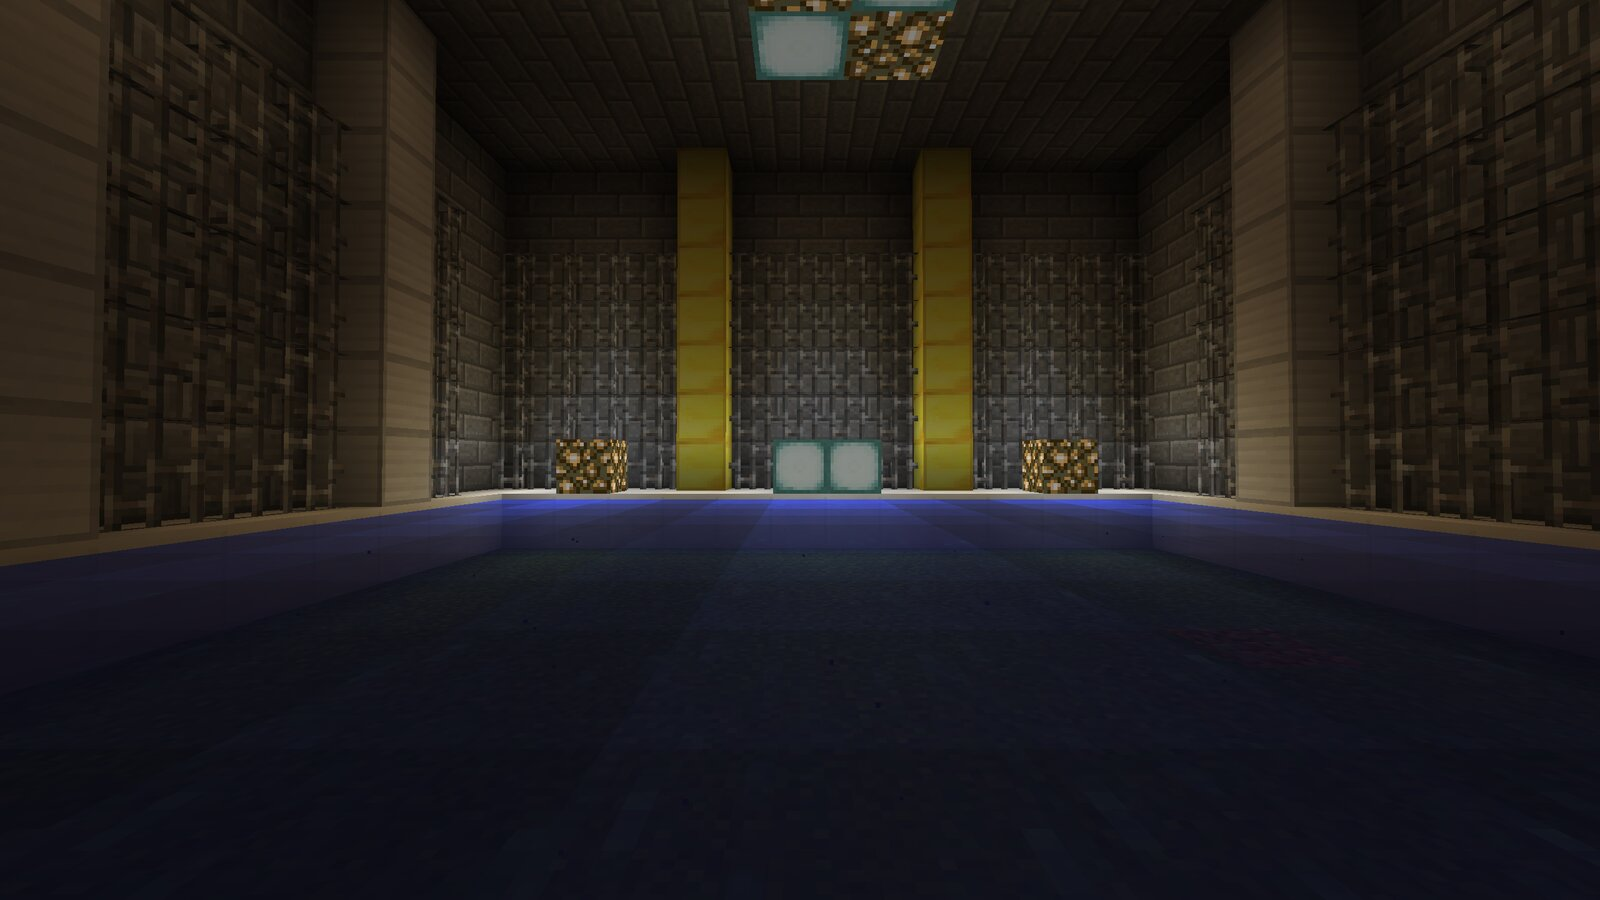
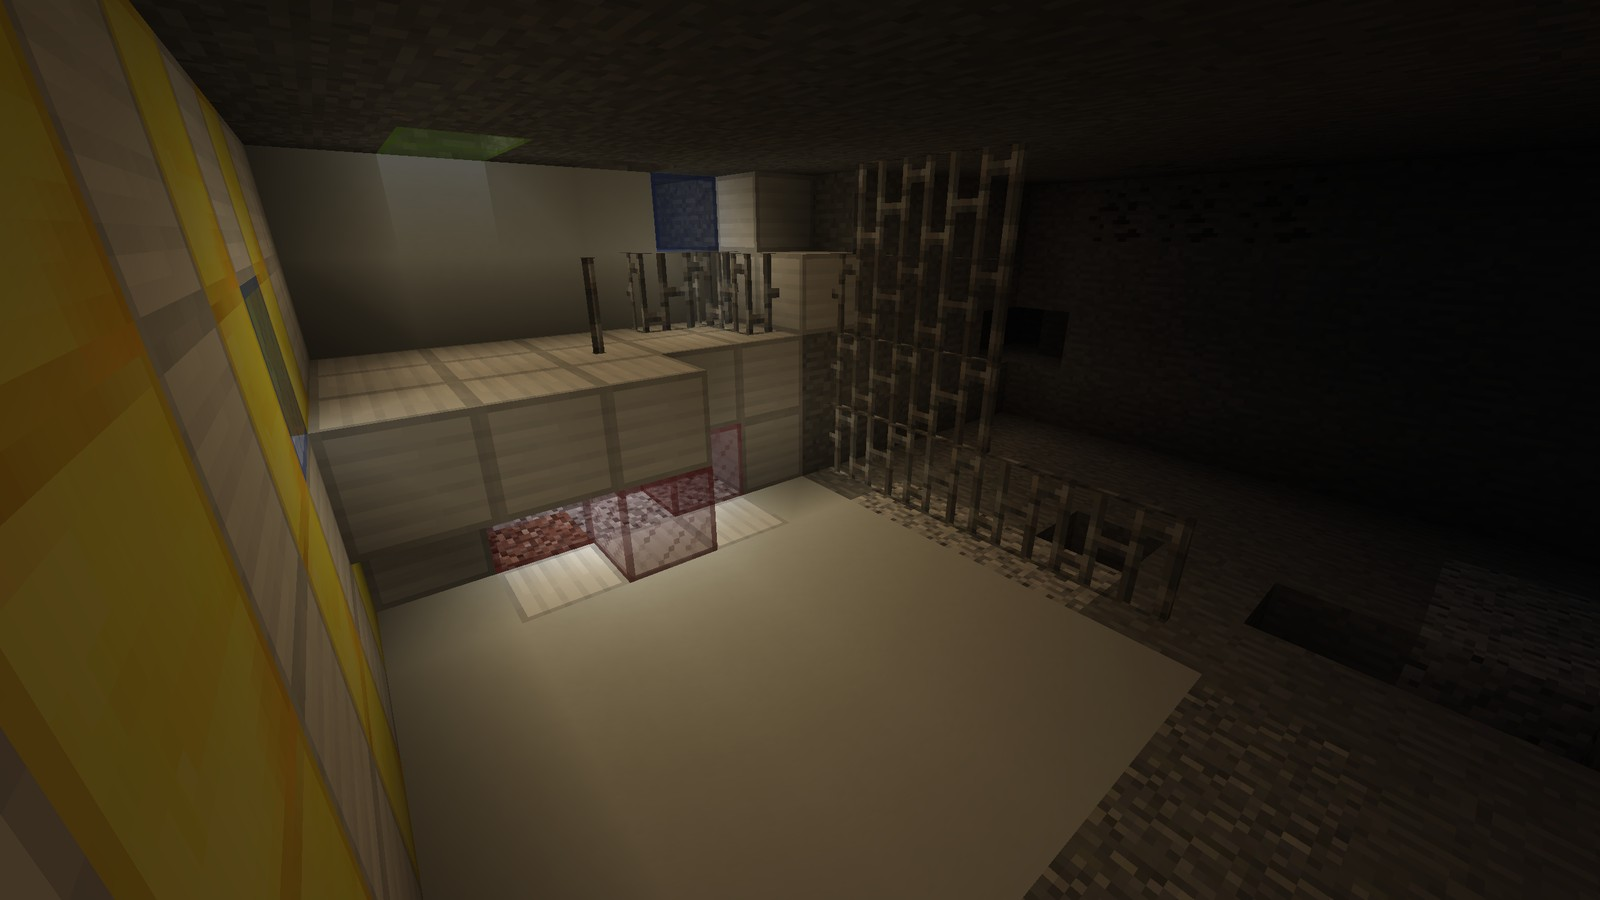
README: ray tracing screenshots; RTX Remix look notes; dev client settings

diff --git a/docs/rt-production-look.md b/docs/rt-production-look.md
@@ -1,0 +1,239 @@
+# Production Look Notes: NVIDIA RTX Remix for Minecraft vs. our RT pass
+
+Research on [NVIDIAGameWorks/rtx-remix-minecraft](https://github.com/NVIDIAGameWorks/rtx-remix-minecraft)
+(Apache-2.0, Fabric, MC 1.21.1, path tracing through the RTX Remix runtime / dxvk-remix).
+Goal: understand what makes its picture look "production" rather than "tech demo", and
+how to reproduce that in our hybrid RT pass (`src/main/resources/assets/vesu/shaders/rt/`,
+`src/main/java/net/vesu/vulkan/rt/`).
+
+The mod's own docs that matter most: `docs/RESOURCE_PACKS.md` (material/light semantics),
+`docs/TUNING.md`, `packaging/rtx.conf` (renderer baseline), and
+`packaging/rtx-remix/mods/minecraft-logic/confs/` (time/weather/water looks).
+Source paths below refer to that repository.
+
+## TL;DR
+
+The NVIDIA look is not a better path tracer. It is three things on top of one:
+
+1. **A deliberate light rig** — tiny, very bright emitters, a sun with angular size and
+   atmosphere extinction, a physically-based sky dome as the only ambient, and a big
+   contrast range between light pools and shadow.
+2. **Energy-consistent transport** — light through colored glass is *multiplied* by the
+   transmittance, never renormalized; reflections are denoised radiance with
+   hit-distance-aware blur, not 1-spp speckle.
+3. **A film-style post chain** — ACES tonemap, −0.75 EV exposure bias, local contrast
+   (shadows 1.4 / highlights 2.5), auto-exposure with tight EV bounds, and selective
+   high-threshold bloom that only the hottest emitters trigger.
+
+Our three visible problems map to these one-to-one:
+
+| Symptom | Root cause in our code | Fix (section) |
+|---|---|---|
+| Light too soft / diffuse | Vanilla lightmap falloff + ambient floors + block-sized emitters | §2.1 |
+| Reflections "crumble" into noise | 1 spp jittered reflection, lightmap-shaded, no denoiser | §2.2 |
+| Colored glass shadows = bright color patches | Hue *normalized and saturated* in shadow any-hit | §2.3 |
+
+---
+
+## 1. What the NVIDIA mod actually is (architecture in one paragraph)
+
+A Fabric mod that replaces the renderer: it re-meshes chunk sections itself
+(`terrain/capture/`), converts the block atlas + LabPBR sidecars into PBR textures
+(`texture/LabPBRConverter.java`: `_s` alpha = emission, smoothness → roughness
+`(1−s)²`, `_n` blue = AO, alpha = height for 0.25-block parallax), and submits
+geometry, analytic lights and a procedural sky to the RTX Remix runtime through its C
+API (`rtxremix-java/`). The runtime path-traces with RTXDI (ReSTIR DI) + NEE cache for
+direct light, ReSTIR GI / SHaRC / NRC for indirect, and **DLSS Ray Reconstruction as
+the denoiser**, then ACES-tonemaps. Layered `rtx.conf` profiles fade looks by time of
+day, weather, biome, water and map zones (`packaging/rtx-remix/mods/minecraft-logic/confs/`).
+
+So it is a full path tracer, but the transferable parts — the light rig, the
+energy-consistency rules, the post chain — are renderer-agnostic and cheap compared to
+path tracing.
+
+---
+
+## 2. Symptom-by-symptom
+
+### 2.1 "Light is too soft and diffuse"
+
+**What we do now** (`lighting.rgen`):
+- Block-light falloff is the *vanilla lightmap curve* `brightness(l) = l/(4−3l)`
+  (`lightTarget()`), spread over a whole block with a random target point in a
+  0.6-block cube — every light is a fuzzy ball about a meter across.
+- Sun shadow is one binary hard ray; there is no penumbra, no atmosphere, so direct
+  sun reads flat.
+- Ambient floors everywhere: `* 0.95 + 0.05`, face shading 0.5/0.6/0.8, DDGI smooth
+  irradiance — nothing ever gets truly dark, so contrast dies.
+
+**What NVIDIA does** — a *lighting rig*, authored like a film set:
+
+- **Small bright emitters.** Torch light: a sphere of radius **0.08** blocks at
+  `(0.5, 0.7, 0.5)`, color `(1.0, 0.35, 0.1)`, intensity `lightLevel(14) × 5 × 3 × 7.5`
+  = **1575** (`light/BlockLightDefaults.java`). The "thin sphere" trick: shrink the
+  radius ×0.4 and raise intensity ×3 — power stays constant but the source is a point,
+  which gives defined pools of light, crisp specular highlights, and visible falloff.
+  Everything else: intensity = vanilla level × 5, ×5 baseline (×7.5 torches/campfires).
+  Emissive *surfaces* (lanterns, sea pickles) deliberately do **not** cast analytic
+  lights; they glow via `_s` alpha at emission intensity 100. Hundreds of weak lights
+  are avoided on purpose ("dilute the light sampling", `docs/RESOURCE_PACKS.md`).
+- **Sun with angular size + extinction.** Sun is a distant disc light, angular diameter
+  **0.53°** (moon 0.52°), path tilted **30°** like BSL/Complementary, base luminance
+  **30** (moon 0.06, slightly blue), weather-scaled (rain ×0.075, thunder ×0.03), and
+  extinguished per-channel by a Kasten-Young air mass with Rayleigh `(0.145, 0.34,
+  0.58)` + Mie `0.08` (`light/LightManager.java`). Sunsets get their color from physics,
+  not a texture.
+- **Sky is the only ambient.** A Rayleigh+Mie compute-shader dome (256×128 RGBA16F,
+  β_R `(5.5,13,22.4)e-6`, β_M `21e-6`, multiple-scattering scale 0.65, atmosphere
+  scale 16 day / 70 night, `sky/AtmosphericSkyGenerator.java` +
+  `assets/rtx-remix-renderer/shaders/sky_atmosphere.comp`) *is* the environment light;
+  a huge downward rect at y=325 (half-size 8000) approximates sky ambient, with a
+  **night ambient boost of 2.5** and day boost 0.0 (`sky/SkyRenderer.java`).
+  There is no flat "0.05 everywhere" floor: dark places are dark, and night is lifted
+  by the dome, not by a constant.
+- **Post does the contrast.** Local tonemap shadows **1.4**, highlights **2.5**
+  (`settings/PostProcessingSettings.java`) — shadow regions are re-lifted with
+  structure, not a global gamma.
+
+**To reproduce (in order of visual impact):**
+1. Shrink our analytic emitters (random target point in a 0.6 cube → ~0.15 cube or a
+   small sphere), raise intensity to compensate (×3 for the area loss × however far we
+   push the baseline), switch falloff from the vanilla curve to inverse-square with a
+   small clamp radius. Keep vanilla levels only as the *intensity seed*, exactly like
+   their `level × 5`.
+2. Give the sun an angular disc (jitter the shadow direction within ~0.5° and
+   accumulate) and a per-channel extinction curve — cheap, transforms the daytime look.
+3. Lower ambient floors (drop the `+0.05` floors, let night ambient come from one
+   sky-term source), then recover shadow detail in the post chain instead (§3).
+
+### 2.2 "Reflections crumble into speckle"
+
+**What we do now** (`reflections.rgen`):
+- One reflection ray per pixel per frame, with a *uniform-box* jittered microfacet
+  normal of magnitude `roughness × 0.7` (line 119), shaded by the **vanilla lightmap**
+  of the hit (`shade()`) — so the reflected "radiance" is albedo × blocky lightmap,
+  i.e. the noise of the texture/lightmap itself, re-raytraced every frame.
+- The result is written straight into `sceneColor`; there is no reflection history and
+  no reflection denoiser (we only feed NRD from `lighting.rgen`). Temporal averaging is
+  whatever FSR's upscaler happens to give.
+
+**What NVIDIA does:**
+- Reflections are path-traced specular radiance — the hit is shaded with the same
+  direct+indirect lighting as everything else, importance-sampled GGX, no lightmap
+  involved.
+- The denoiser is **DLSS Ray Reconstruction**, fed with linear-depth, normals,
+  roughness, and — critically — `rtx.rayreconstruction.combineSpecularAlbedo = true`
+  (`packaging/rtx.conf`): primary+secondary specular albedo are combined so the
+  network can separate surface color from lighting; without it "water reflects blotchy
+  sky-coloured smears" (their comment). Noise is killed by a spatiotemporal model
+  trained to preserve highlights, not by more samples.
+
+**To reproduce (pragmatic ladder):**
+1. **Cheap, huge win:** shade the reflection hit with our *existing* stable signals
+   instead of the raw lightmap — the accumulated block-light history and DDGI
+   irradiance (both already computed in `lighting.rgen`). Reflected light stops being
+   per-frame noise; speckle drops immediately.
+2. **Denoise reflections for real.** We already integrate NRD for diffuse
+   (`blockRaw`/`giRaw`/`viewZ`); NRD's REBLUR specular mode is the same integration
+   with a specular payload (radiance + hit distance + roughness from `gbufferNormals.a`,
+   checkerboarded like the GI path). Alternatively a small custom temporal reflection
+   buffer: reproject with disocclusion rejection (we already have the machinery in
+   `lighting.rgen`'s history taps) and clamp history to the new sample ± variance.
+3. **Sample smarter:** GGX/hemisphere importance sampling instead of uniform-box
+   jitter, jitter scaled by `roughness²` (matches our `(1−s)²` roughness), and fade
+   reflections out with the same range fade we use for shadows so distant rough
+   surfaces don't shimmer at the fade edge.
+
+### 2.3 "Colored glass shadows are bright color patches"
+
+**What we do now** (`shadow.rahit` lines 27–32 + `lighting.rgen` line 389):
+- The any-hit shader *normalizes* the glass tint to full saturation and saturates it
+  further: `color /= maxComponent; color = pow(color, 1.5)`, with the explicit comment
+  "glass colors light more than it dims it". Then `lighting.rgen` derives `through =
+  maxComponent` — a red glass pane with transmittance (0.9, 0.1, 0.1) darkens the
+  surface by only ~10% but paints it in fully saturated red. Hue is decoupled from
+  energy, so shadows look like stained-glass-window color blobs.
+
+**What NVIDIA does:**
+- Physically consistent multiplicative transmittance. A shadow ray through glass
+  accumulates the *actual* transmittance color (Beer–Lambert style product), with
+  `rtx.enableDirectTranslucentShadows = true` / `rtx.enableIndirectTranslucentShadows =
+  true` (`packaging/rtx.conf`). A pane that passes 30% of red light darkens the surface
+  to 30% and tints it red — the shadow is dim *and* colored, never brighter than the
+  unoccluded light, hue saturation proportional to how much light is actually filtered.
+- Their baseline glass: IOR 1.52, transmittance `(0.97, 0.97, 0.97)` at 0.35 m — nearly
+  clear glass barely tints; deeply colored glass needs deep tint to read.
+
+**To reproduce:** in `shadow.rahit`, drop the normalization and the `pow(1.5)`:
+multiply `shadow.rgb *= mix(vec3(1.0), tex.rgb, alpha)` (possibly with a mild
+`pow(color, 0.8)` to compensate display gamma if a single pane reads too weak).
+In `lighting.rgen`, replace the `through`-normalization with the raw transmittance:
+`sunFactor = mix(1, shadowTransmittance, strength · fade)` — occlusion *is* the
+transmittance product. Same for the reflection glint shadow. One pane will tint
+subtly; a stack of panes goes dark and deeply colored, which is exactly what a
+production picture does.
+
+---
+
+## 3. The post chain (this is where "production" actually happens)
+
+NVIDIA's numbers (`packaging/rtx.conf`, `settings/PostProcessingSettings.java`, and
+the conf profiles), directly transferable as a tuning target:
+
+| Parameter | Value | Notes |
+|---|---|---|
+| Tonemap | ACES (non-legacy) | `rtx.useLegacyACES = false`; "legacy skews colors" |
+| Exposure | **0.21405728** | includes an authored **−0.75 EV** bias |
+| Local tonemap shadows / highlights | **1.4 / 2.5** | shadow lift, highlight rolloff |
+| Auto-exposure EV range | **−2.5 … 1.5** | night caps at −0.5 so a dark sky never exposes down |
+| Auto-exposure speed / metering | 10 / center 0.75 | |
+| Exposure preference σ / offset | 3.5 / −0.1 | biases adaptation darker |
+| Bloom (day) | 8 steps, threshold **250** (pre-tonemap), burn 0.1 | only the hottest emitters bloom — "film camera halation" |
+| Bloom (night) | threshold **1**, burn **1.5** | deliberate authored pair with the night exposure cap |
+| Rain/thunder looks | fog 0.996/0.97 white @ 10 m, shadows 1.75/2.0, EV max −1.0 | conf-layer blend by vanilla weather gradient |
+| Underwater | fog transmittance (0.6, 0.9, 0.89) @ 20 m, SSA (0.206, 0.999, 0.903), anisotropy 0.4 | separate from the surface material (IOR 1.33, transmittance @ 1 m) |
+
+And the stability side, so the picture stays clean while moving:
+- Denoising is per-signal with proper inputs (RR + ReSTIR DI/GI), and the sparse
+  renderer keeps RTXDI reuse on inactive pixels to avoid direct-light flicker
+  (`rtx.sparseRendering.*` in `rtx.conf`).
+- Temporal caches are bounded and distance-validated like ours, but with big
+  accumulation budgets (SHaRC 1000 frames) and position *wrapping* instead of
+  recentering to avoid resets.
+
+Our composite (`rt_composite.comp`) + existing FSR/NRD stage is the place to land the
+ACES + exposure-bias + local-contrast + selective-bloom stack; none of it needs more
+rays.
+
+## 4. Reference: NVIDIA's authored light cheat-sheet
+
+From `light/BlockLightDefaults.java`, `light/LightManager.java`, `sky/SkyRenderer.java`:
+
+| Item | Value |
+|---|---|
+| Radiance per vanilla light level | 5.0 |
+| Torch | sphere r=0.08 @ (0.5, 0.7, 0.5), color (1.0, 0.35, 0.1), intensity = level·5·3·**7.5** ≈ 1575 |
+| Soul torch | same, color (0.05, 0.2, 1.0) |
+| Campfire | sphere r=0.25 @ center, (1.0, 0.1, 0.05), ×7.5 |
+| Candles 1–4 | thin spheres r=0.024 at authored per-count offsets, ×5 |
+| Amethyst cluster | sphere r=0.18, (0.65, 0.35, 1.0), level·5·2 |
+| Default intensity baseline | ×5 (×7.5 torch/campfire); thin lights shrink r ×0.4, boost ×3 |
+| Emissive surfaces | intensity 100 (terrain/entity), 40 (particles), 4 (end portal) |
+| Sun / moon | luminance 30 / 0.06, angular size 0.53° / 0.52°, path tilt 30°, weather ×0.075 / ×0.03 |
+| Atmosphere extinction | Rayleigh (0.145, 0.34, 0.58) + Mie 0.08, Kasten-Young air mass |
+| Sky dome | Rayleigh+Mie compute shader, MS scale 0.65, scale 16 day / 70 night, Mie g 0.9 |
+| Sky ambient | rect light y=325, half-size 8000; night boost 2.5, day 0.0 |
+| Sun/moon billboards | emissive quads at 100 blocks, radiance 8.0 / 0.2; stars radiance 1.0 |
+| Water | IOR 1.33, transmittance (0.6, 0.9, 0.89) @ 1 m, normal flipbook waves |
+| Glass | IOR 1.52, transmittance 0.97 @ 0.35 m |
+| Beacon beam | 30° cone, intensity level·5·150 placed ·45 held ·15000 display |
+
+## 5. Suggested order of work
+
+1. **Glass shadows** (§2.3) — smallest diff, instantly removes the "color patches".
+2. **Reflection shading + temporal/denoiser** (§2.2 step 1, then 2) — kills the speckle.
+3. **Post chain** (§3) — ACES + −0.75 EV + shadows 1.4/highlights 2.5 + selective bloom;
+   this alone moves the picture from "demo" to "film".
+4. **Light rig** (§2.1) — small bright emitters, sun disc + extinction, ambient floor
+   reduction. Biggest artistic change; do it after the post chain so contrast has
+   somewhere to go.

diff --git a/README.md b/README.md
@@ -26,7 +26,7 @@ render distance.
   <img src="https://raw.githubusercontent.com/Vendetta1871/vulkanmod-legacy/master/docs/images/rt-off.jpg" width="49%" alt="Ray tracing off"/>
   <img src="https://raw.githubusercontent.com/Vendetta1871/vulkanmod-legacy/master/docs/images/rt-on.jpg" width="49%" alt="Ray tracing on"/>
 </p>
-<p align="center"><sub><b>Left:</b> ray tracing off. <b>Right:</b> ray tracing on, 32-chunk effect range.</sub></p>
+<p align="center"><sub><b>Left:</b> ray tracing off. <b>Right:</b> path tracing with Ray Reconstruction, light through stained glass.</sub></p>
 
 ## Shader packs
 
